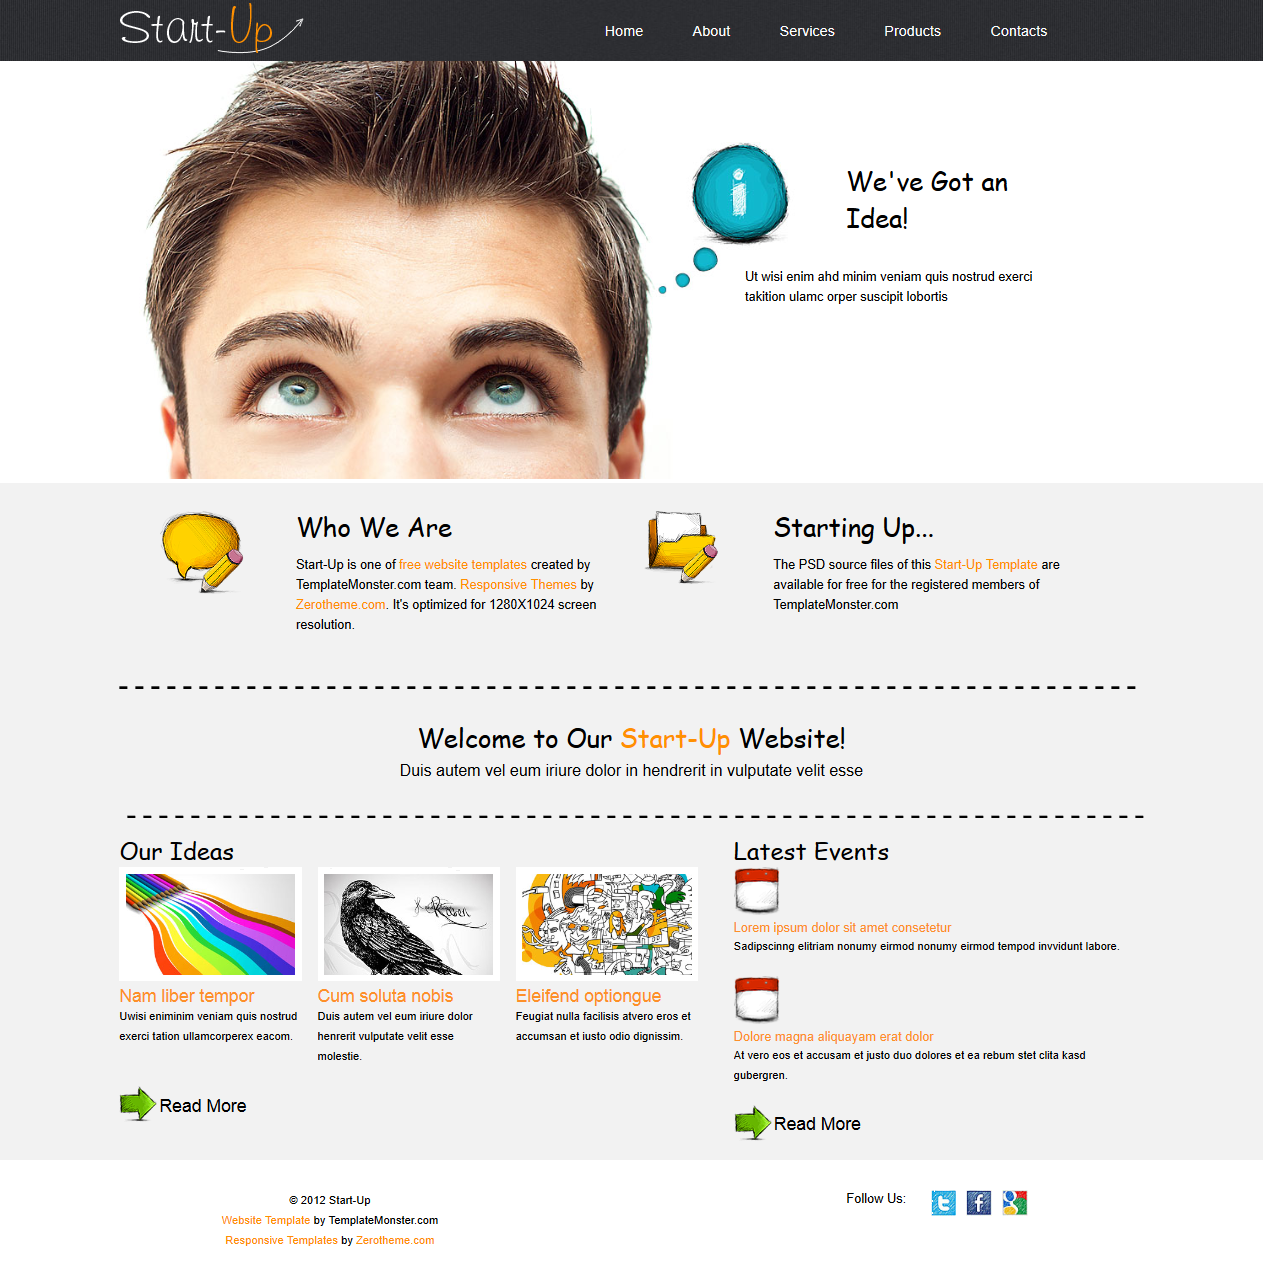
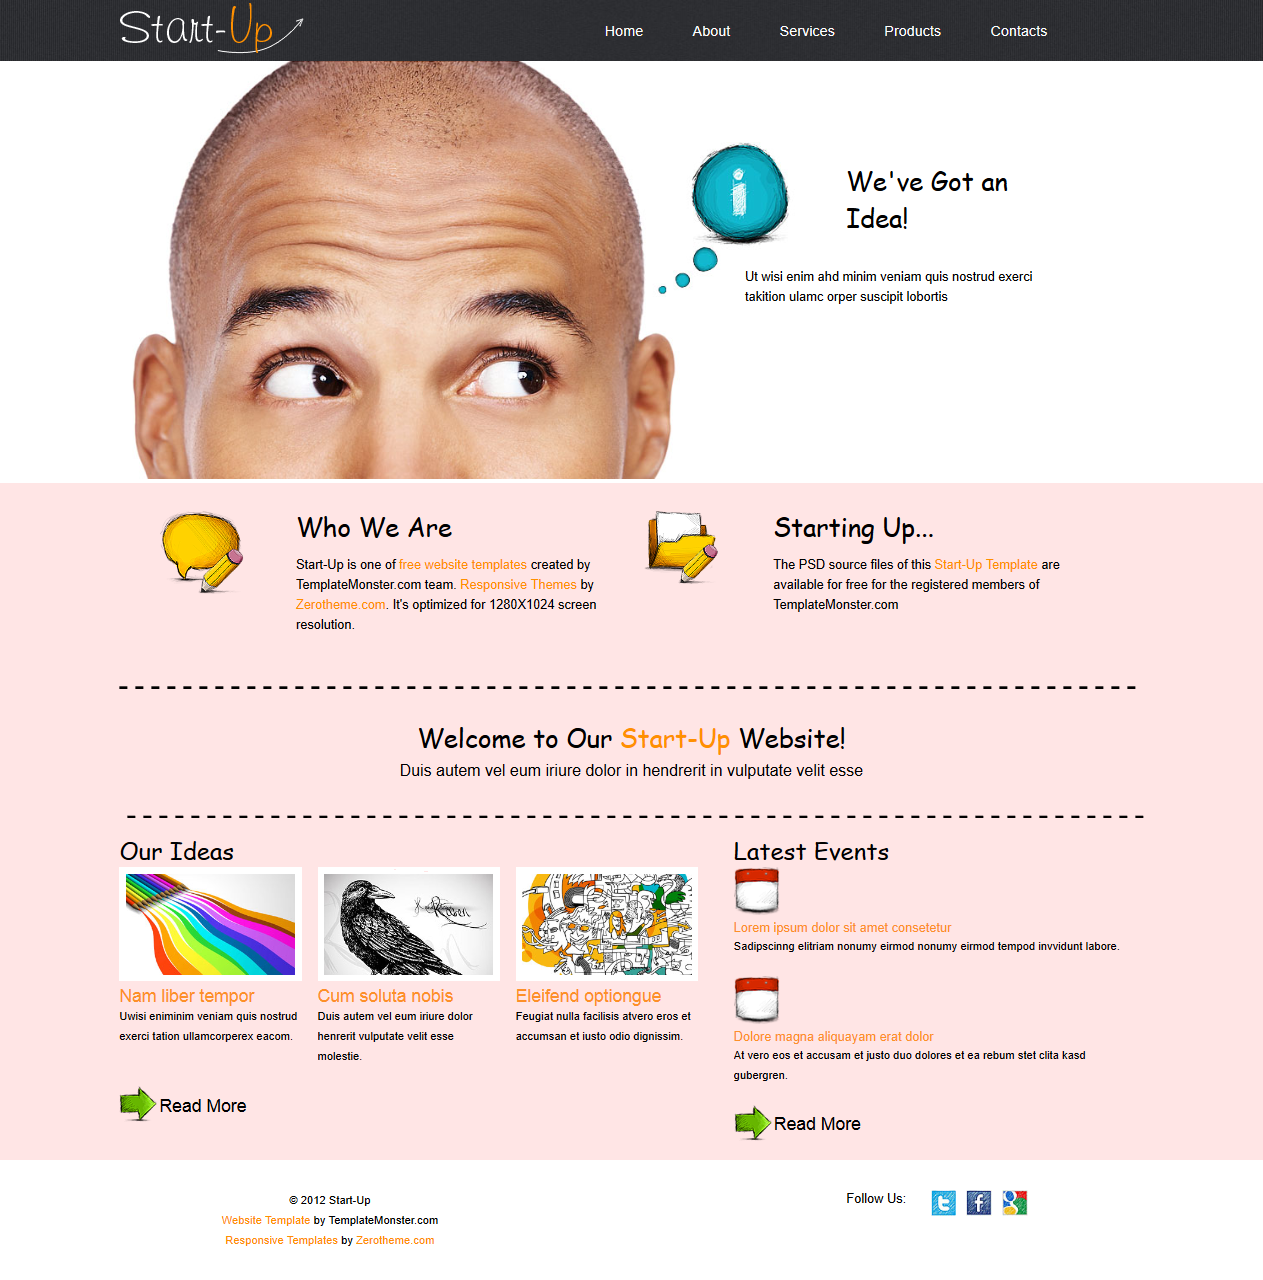
File is updated

Changed region(s): [[0.0926, 0.0312, 0.5558, 0.375]]

diff --git a/RWD-project/css/rwd.less b/RWD-project/css/rwd.less
@@ -23,7 +23,7 @@ ul{
 	padding: 0;	
 }
 section.banner_info, section.ideas_section{
-	background-color: #f2f2f2;
+	background-color: #ffe5e5;
 }
 section h2, h3{
 	font-family: "Comic Sans MS", sans-serif;
@@ -89,7 +89,7 @@ header nav a:hover{
 	border:1px solid #000;
 }
 .banner_content{
-	background-color: #f2f2f2;
+	background-color: #ffe5e5;
 	padding: 0 4% 5% 4%;
 	box-sizing:content-box;
 }
@@ -210,19 +210,19 @@ footer p{
 	}
 	section.banner_content{
 		margin-top: 0px;
-		background-color: #f2f2f2;
+		background-color: #ffe5e5;
 	}
 	section h2{
 		font-size:2.3em;
 	}
 	.banner_content div.f{
 		overflow: hidden;
-		background-color: #f2f2f2;
+		background-color: #ffe5e5;
 	}
 	.banner_content article{
 		width: 48%;
 		float: left;
-		background-color: #f2f2f2;
+		background-color: #ffe5e5;
 	}
 	.banner_content article:first-child{
 		margin-right: 25px;

diff --git a/RWD-project/Rwd_template.html b/RWD-project/Rwd_template.html
@@ -30,7 +30,7 @@
 		</header>
 		<section class="banner">
 			<div class="container">
-				<div><img src="images/slider-1.jpg" width="89%"/></div>
+				<div><img src="images/slider-3.jpg" width="89%"/></div>
 				<div class="banner_tag">
 					<h2>We've Got an Idea!</h2>
 				</div>

diff --git a/RWD-project/css/rwd.css b/RWD-project/css/rwd.css
@@ -23,7 +23,7 @@ ul{
 	padding: 0;	
 }
 section.banner_info, section.ideas_section{
-	background-color: #f2f2f2;
+	background-color: #ffe5e5;
 }
 section h2, h3{
 	font-family: "Comic Sans MS", sans-serif;
